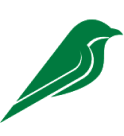
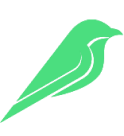
Apply updated Figma palette and type
- Accent moves to #4bde7f with dark (#1a1a1a) text on buttons; logo, bird,
  icons and dot textures re-exported in the new green.
- Page #161b19, hero #070d0a, dashboard panel #14251d with tinted tiles.
- Display face is now Inter Tight (replaces the Brockmann stand-in).
- Hero/trust dividers become solid #202d27/#2a2b2b; logo wall borders #2a2b2b.
- Investment solutions sits on a full-width sage (#acc1b9) band with dark
  type; card 01 #1f3628, card 02 bright #0cb666 with dark text.

Claude-Session: https://claude.ai/code/session_01XRqrEpmtpapnk4ATDiMnUk

Changed region(s): [[0.0, 0.1176, 0.9919, 0.9118]]

diff --git a/app/_components/investment-solutions.tsx b/app/_components/investment-solutions.tsx
@@ -4,6 +4,8 @@ import { d } from './delay'
 import { Reveal } from './motion'
 import { Container, DisplayHeading, Eyebrow } from './primitives'
 
+// Each card carries its own palette: card 01 is light-on-dark, card 02 is
+// dark-on-bright-green.
 const solutions = [
   {
     id: 'private-equity',
@@ -13,9 +15,16 @@ const solutions = [
     body: 'Explore private companies defining their industries, accessed through our affiliated Fund + Series LLC structure. Available to accredited investors.',
     cta: 'Discover private equity',
     href: '#private-equity',
-    background: 'bg-card-pe',
     dots: '/images/dots-private-equity@2x.png',
-    ring: 'border-[rgb(105_255_120/0.2)]',
+    arrow: '/images/icon-arrow-up-right-sm.svg',
+    theme: {
+      card: 'bg-card-pe text-white',
+      accent: 'text-brand',
+      ring: 'border-[rgb(105_255_120/0.2)] group-hover:border-brand/60',
+      body: 'text-white/80',
+      glow: 'bg-[radial-gradient(70%_60%_at_80%_100%,rgb(75_222_127/0.16),transparent_70%)]',
+      linkHover: 'group-hover/link:bg-brand/30',
+    },
   },
   {
     id: 'market-linked-notes',
@@ -25,28 +34,35 @@ const solutions = [
     body: 'Senior unsecured debt from major financial institutions, with returns linked to an underlying asset or index. Explore a different approach to market exposure.',
     cta: 'Discover market-linked notes',
     href: '#market-linked-notes',
-    background: 'bg-card-mln',
     dots: '/images/dots-market-linked-notes@2x.png',
-    ring: 'border-brand/20',
+    arrow: '/images/icon-arrow-up-right-sm-dark.svg',
+    theme: {
+      card: 'bg-card-mln text-on-light',
+      accent: 'text-on-light',
+      ring: 'border-on-light/20 group-hover:border-on-light/50',
+      body: 'text-on-light/80',
+      glow: 'bg-[radial-gradient(70%_60%_at_80%_100%,rgb(255_255_255/0.18),transparent_70%)]',
+      linkHover: 'group-hover/link:bg-on-light/10',
+    },
   },
 ]
 
 export function InvestmentSolutions() {
   return (
-    <section id="investment-solutions" aria-label="Investment solutions" className="pb-[76px]">
-      <Container className="mt-[100px]">
+    <section id="investment-solutions" aria-label="Investment solutions" className="mt-[60px] bg-sage py-[60px]">
+      <Container>
         <Reveal className="flex flex-col gap-8 md:flex-row md:items-end md:justify-between">
           <div>
-            <Eyebrow className="r text-white/50">Investment solutions</Eyebrow>
-            <DisplayHeading className="mt-6" delay={100} lead="Two ways to invest." rest="One account." dimLead />
+            <Eyebrow className="r text-on-light/50">Investment solutions</Eyebrow>
+            <DisplayHeading className="mt-6" delay={100} tone="dark" lead="Two ways to invest." rest="One account." />
           </div>
           <a href="#private-equity" className="r group flex items-center gap-[14px]" style={d(400)}>
-            <span className="text-[14px] leading-[1.3] text-white/60 transition-colors duration-300 group-hover:text-white/80">
+            <span className="text-[14px] leading-[1.3] text-on-light/60 transition-colors duration-300 group-hover:text-on-light/90">
               <span className="block">Distinct ways to invest.</span>
               <span className="block">A single place to begin.</span>
             </span>
-            <span className="flex size-[50px] shrink-0 items-center justify-center rounded-full border border-line transition-colors duration-300 group-hover:border-brand/60 group-hover:bg-brand/10">
-              <Image src="/images/icon-arrow-down-brand.svg" alt="" width={29} height={29} className="bob" />
+            <span className="flex size-[50px] shrink-0 items-center justify-center rounded-full border border-on-light transition-colors duration-300 group-hover:bg-on-light/10">
+              <Image src="/images/icon-arrow-down-dark.svg" alt="" width={29} height={29} className="bob" />
             </span>
           </a>
         </Reveal>
@@ -56,7 +72,7 @@ export function InvestmentSolutions() {
             <article
               key={s.id}
               id={s.id}
-              className={`r group relative flex min-h-[483px] scroll-mt-8 flex-col justify-between gap-16 overflow-hidden rounded-[4px] p-6 sm:p-10 ${s.background}`}
+              className={`r group relative flex min-h-[483px] scroll-mt-8 flex-col justify-between gap-16 overflow-hidden rounded-[4px] p-6 sm:p-10 ${s.theme.card}`}
               style={{ ...d(i * 150), '--rise': '40px' } as React.CSSProperties}
             >
               <Image
@@ -66,15 +82,17 @@ export function InvestmentSolutions() {
                 sizes="(min-width: 768px) 652px, 100vw"
                 className="pointer-events-none origin-bottom-right object-cover object-[right_bottom] transition-transform duration-[1600ms] ease-(--ease-expo) select-none group-hover:scale-110"
               />
-              <div className="pointer-events-none absolute inset-0 bg-[radial-gradient(70%_60%_at_80%_100%,rgb(0_122_63/0.18),transparent_70%)] opacity-0 transition-opacity duration-700 group-hover:opacity-100" />
+              <div
+                className={`pointer-events-none absolute inset-0 opacity-0 transition-opacity duration-700 group-hover:opacity-100 ${s.theme.glow}`}
+              />
 
               <div className="relative flex items-center gap-4">
                 <span
-                  className={`flex size-[50px] items-center justify-center rounded-full border font-numeric text-[16px] leading-none text-brand transition-colors duration-500 group-hover:border-brand/70 ${s.ring}`}
+                  className={`flex size-[50px] items-center justify-center rounded-full border font-numeric text-[16px] leading-none transition-colors duration-500 ${s.theme.accent} ${s.theme.ring}`}
                 >
                   {s.index}
                 </span>
-                <Eyebrow className="text-brand">{s.label}</Eyebrow>
+                <Eyebrow className={s.theme.accent}>{s.label}</Eyebrow>
               </div>
 
               <div className="relative">
@@ -87,12 +105,14 @@ export function InvestmentSolutions() {
                     </span>
                   ))}
                 </h3>
-                <p className="mt-6 max-w-[374px] text-[14px] leading-[1.3] text-white/60">{s.body}</p>
+                <p className={`mt-6 max-w-[374px] text-[14px] leading-[1.3] ${s.theme.body}`}>{s.body}</p>
                 <Link href={s.href} className="group/link mt-5 inline-flex items-center gap-2 text-[14px] leading-none">
                   {s.cta}
-                  <span className="glass flex size-[30px] items-center justify-center overflow-hidden rounded-full transition-[background-color,transform] duration-500 ease-(--ease-expo) group-hover/link:scale-110 group-hover/link:bg-brand">
+                  <span
+                    className={`glass flex size-[30px] items-center justify-center overflow-hidden rounded-full transition-[background-color,transform] duration-500 ease-(--ease-expo) group-hover/link:scale-110 ${s.theme.linkHover}`}
+                  >
                     <Image
-                      src="/images/icon-arrow-up-right-sm.svg"
+                      src={s.arrow}
                       alt=""
                       width={14}
                       height={14}

diff --git a/app/globals.css b/app/globals.css
@@ -1,21 +1,27 @@
 @import 'tailwindcss';
 
 /*
- * The design is set in three licensed faces (Brockmann, Suisse Intl, PP
- * Editorial New). They're listed first in each stack so they take over as soon
- * as the font files are added (e.g. via next/font/local); until then the open
- * fallbacks loaded in layout.tsx stand in.
+ * Display type is Inter Tight. Body and serif are set in licensed faces
+ * (Suisse Intl, PP Editorial New); they're listed first in their stacks so
+ * they take over as soon as the font files are added (e.g. via
+ * next/font/local). Until then the open fallbacks loaded in layout.tsx stand in.
  */
 @theme {
-  --color-ink: #020905;
-  --color-hero: #030e08;
-  --color-brand: #007a3f;
-  --color-line: #202d27;
+  --color-ink: #161b19;
+  --color-hero: #070d0a;
+  --color-panel: #14251d;
+  --color-brand: #4bde7f;
+  --color-brand-hover: #6fe89a;
+  --color-on-brand: #1a1a1a;
+  --color-on-light: #070d0a;
+  --color-sage: #acc1b9;
+  --color-line: #2a2b2b;
+  --color-line-hero: #202d27;
   --color-outline: #424544;
-  --color-card-pe: #00160b;
-  --color-card-mln: #051705;
+  --color-card-pe: #1f3628;
+  --color-card-mln: #0cb666;
 
-  --font-display: 'Brockmann', 'Manrope Variable', ui-sans-serif, system-ui, sans-serif;
+  --font-display: 'Inter Tight Variable', 'Inter Tight', ui-sans-serif, system-ui, sans-serif;
   --font-sans: 'Suisse Intl', 'Inter Variable', ui-sans-serif, system-ui, sans-serif;
   --font-serif: 'PP Editorial New', 'Newsreader Variable', ui-serif, Georgia, serif;
   --font-mono: 'Roboto Mono', ui-monospace, SFMono-Regular, monospace;
@@ -46,7 +52,7 @@
     isolation: isolate;
     background-image: linear-gradient(
       var(--glass-angle, 135deg),
-      rgb(250 250 250 / 0.12) 3.19%,
+      var(--glass-from, rgb(250 250 250 / 0.12)) 3.19%,
       rgb(250 250 250 / 0) 103.55%
     );
     backdrop-filter: blur(100px);
@@ -58,6 +64,11 @@
   .hairline {
     height: 1px;
     background-color: rgb(255 255 255 / 0.2);
+  }
+
+  /* Tinted glass used by the dashboard's tiles and allocation track. */
+  .glass-tint {
+    --glass-from: rgb(29 52 40 / 0.12);
   }
 }
 
@@ -165,10 +176,10 @@
 
 @keyframes pulse-dot {
   0% {
-    box-shadow: 0 0 0 0 rgb(0 200 100 / 0.55);
+    box-shadow: 0 0 0 0 rgb(75 222 127 / 0.55);
   }
   100% {
-    box-shadow: 0 0 0 7px rgb(0 200 100 / 0);
+    box-shadow: 0 0 0 7px rgb(75 222 127 / 0);
   }
 }
 
@@ -268,7 +279,7 @@
   }
 
   .face-flash {
-    background: radial-gradient(60% 70% at 50% 40%, rgb(0 122 63 / 0.16), transparent 70%);
+    background: radial-gradient(60% 70% at 50% 40%, rgb(75 222 127 / 0.14), transparent 70%);
     animation: face-flash 1.4s ease-out forwards;
   }
 
@@ -345,8 +356,8 @@
 
   .hero-aurora {
     background:
-      radial-gradient(38% 34% at 22% 78%, rgb(0 122 63 / 0.2), transparent 70%),
-      radial-gradient(34% 42% at 90% 82%, rgb(20 120 60 / 0.22), transparent 70%);
+      radial-gradient(38% 34% at 22% 78%, rgb(20 75 20 / 0.22), transparent 70%),
+      radial-gradient(34% 42% at 90% 82%, rgb(75 222 127 / 0.12), transparent 70%);
     animation: drift 16s ease-in-out infinite alternate;
   }
 

diff --git a/app/_components/portfolio-preview.tsx b/app/_components/portfolio-preview.tsx
@@ -117,9 +117,8 @@ export function PortfolioPreview() {
   return (
     <div
       aria-hidden
-      className="relative h-[657px] w-[961px] overflow-hidden rounded-[4px] text-left"
+      className="relative h-[657px] w-[961px] overflow-hidden rounded-[4px] bg-panel text-left"
       style={{
-        backgroundImage: 'linear-gradient(145.62deg, rgb(4 22 12) 3.19%, rgb(3 14 8) 103.55%)',
         boxShadow:
           'inset -2.113px -2.113px 2.113px 0 rgb(255 255 255 / 0.05), inset 1.056px 1.056px 1.056px 0 rgb(255 255 255 / 0.15)',
       }}
@@ -153,7 +152,7 @@ export function PortfolioPreview() {
           Allocations
         </p>
         <div
-          className="glass intro mt-[21px] ml-[3px] flex h-[184px] w-[384px] overflow-hidden rounded-[4px]"
+          className="glass glass-tint intro mt-[21px] ml-[3px] flex h-[184px] w-[384px] overflow-hidden rounded-[4px]"
           style={{ '--glass-angle': '154.38deg', ...d(1500) } as React.CSSProperties}
         >
           <div
@@ -178,7 +177,7 @@ export function PortfolioPreview() {
       <div className="absolute top-[62px] left-[590px] w-[311px]">
         <p className="intro flex items-center gap-2 font-mono text-[12px] leading-none uppercase" style={d(1400)}>
           Holdings
-          <span className="live-dot size-[5px] rounded-full bg-[#00c864]" />
+          <span className="live-dot size-[5px] rounded-full bg-brand" />
         </p>
         <ul className="mt-6">
           {slots.map((poolIndex, slot) => {
@@ -195,7 +194,7 @@ export function PortfolioPreview() {
                   className={`flex h-[50px] gap-3 ${leaving === slot ? 'row-out' : ready ? 'row-in' : 'opacity-0'}`}
                   style={initial ? d(slot * 140) : undefined}
                 >
-                  <div className="glass size-[50px] shrink-0 rounded-[4px]">
+                  <div className="glass glass-tint size-[50px] shrink-0 rounded-[4px]">
                     <div className="tile-shimmer absolute inset-0 rounded-[4px]" style={initial ? d(slot * 140 + 150) : undefined} />
                   </div>
                   <div className="min-w-0 flex-1 pt-[7px]">

diff --git a/app/_components/primitives.tsx b/app/_components/primitives.tsx
@@ -31,6 +31,7 @@ export function DisplayHeading({
   lead,
   rest,
   dimLead = false,
+  tone = 'light',
   className = '',
   as: Tag = 'h2',
   motion = 'reveal',
@@ -39,6 +40,8 @@ export function DisplayHeading({
   lead: string
   rest: string
   dimLead?: boolean
+  /** `light` text for dark surfaces, `dark` text for the sage band. */
+  tone?: 'light' | 'dark'
   className?: string
   as?: 'h1' | 'h2'
   motion?: 'intro' | 'reveal'
@@ -47,7 +50,7 @@ export function DisplayHeading({
   const line = motion === 'intro' ? 'intro-line' : 'r-line'
   return (
     <Tag
-      className={`font-display text-[36px] leading-[1.1] font-semibold tracking-[-0.01em] text-white sm:text-[52px] sm:leading-[58px] ${className}`}
+      className={`font-display text-[36px] leading-[1.1] font-semibold sm:text-[52px] ${tone === 'dark' ? 'text-on-light' : 'text-white'} sm:leading-[58px] ${className}`}
     >
       <span className="line-mask">
         <span className={`${line} ${dimLead ? 'text-white/60' : ''}`} style={d(delay)}>
@@ -83,7 +86,7 @@ export function PrimaryButton({
   return (
     <Link
       href={href}
-      className={`btn-shine group relative inline-flex shrink-0 items-center overflow-hidden rounded-[6px] bg-brand text-[14px] leading-none font-book text-white transition-[background-color,box-shadow] duration-300 hover:bg-[#008c48] hover:shadow-[0_8px_30px_-6px_rgb(0_122_63/0.7)] focus-visible:outline-2 focus-visible:outline-offset-2 focus-visible:outline-brand ${autoShine ? 'btn-shine-auto' : ''} ${buttonSizes[size]}`}
+      className={`btn-shine group relative inline-flex shrink-0 items-center overflow-hidden rounded-[6px] bg-brand text-[14px] leading-none font-book text-on-brand transition-[background-color,box-shadow] duration-300 hover:bg-brand-hover hover:shadow-[0_8px_30px_-6px_rgb(75_222_127/0.55)] focus-visible:outline-2 focus-visible:outline-offset-2 focus-visible:outline-brand ${autoShine ? 'btn-shine-auto' : ''} ${buttonSizes[size]}`}
     >
       <span className="relative">{children}</span>
       <Image

diff --git a/app/_components/dot-field.tsx b/app/_components/dot-field.tsx
@@ -56,7 +56,7 @@ export function DotField({ active }: { active: boolean }) {
         const angle = Math.atan2(dot.y - cy, dot.x - cx)
         const beam = Math.pow(0.5 + 0.5 * Math.cos(angle - sweep), 6)
         const alpha = Math.min(MAX_ALPHA, dot.base * (0.35 + 0.65 * twinkle) + beam * 0.35)
-        ctx.fillStyle = `rgba(70, 214, 128, ${alpha.toFixed(3)})`
+        ctx.fillStyle = `rgba(75, 222, 127, ${alpha.toFixed(3)})`
         ctx.beginPath()
         ctx.arc(dot.x, dot.y, RADIUS, 0, Math.PI * 2)
         ctx.fill()

diff --git a/app/_components/hero.tsx b/app/_components/hero.tsx
@@ -13,7 +13,7 @@ export function Hero() {
 
       <div className="relative pt-[26px]">
         <SiteNav />
-        <div className="hairline draw-x mt-8" style={d(250)} />
+        <div className="draw-x mt-8 h-px bg-line-hero" style={d(250)} />
 
         <div className="flex flex-col items-center text-center">
           <Eyebrow className="intro mt-20 text-brand" style={d(350)}>

diff --git a/app/layout.tsx b/app/layout.tsx
@@ -1,6 +1,6 @@
 import type { Metadata } from 'next'
 import '@fontsource-variable/inter'
-import '@fontsource-variable/manrope'
+import '@fontsource-variable/inter-tight'
 import '@fontsource-variable/newsreader'
 import '@fontsource/roboto-mono/400.css'
 import './globals.css'

diff --git a/app/_components/trust-bar.tsx b/app/_components/trust-bar.tsx
@@ -19,7 +19,7 @@ export function TrustBar() {
             </li>
           ))}
         </ul>
-        <div className="hairline r-draw mt-8" style={d(150)} />
+        <div className="r-draw mt-8 h-px bg-line" style={d(150)} />
       </Reveal>
     </Container>
   )

diff --git a/README.md b/README.md
@@ -9,11 +9,11 @@ pnpm dev
 
 ## Fonts
 
-The design uses three licensed faces: **Brockmann** (display), **Suisse Intl** (body)
-and **PP Editorial New** (the dashboard title). They're first in each font stack in
-`app/globals.css`, so they take over once the font files are added (for example
-with `next/font/local`). Until then, open stand-ins load from Fontsource: Manrope,
-Inter and Newsreader. Roboto Mono is used as designed.
+Display type is **Inter Tight**, loaded from Fontsource. Body copy and the
+dashboard title use two licensed faces, **Suisse Intl** and **PP Editorial New**.
+They're first in their font stacks in `app/globals.css`, so they take over once
+the font files are added (for example with `next/font/local`). Until then, Inter
+and Newsreader stand in. Roboto Mono is used as designed.
 
 ## Assets
 
